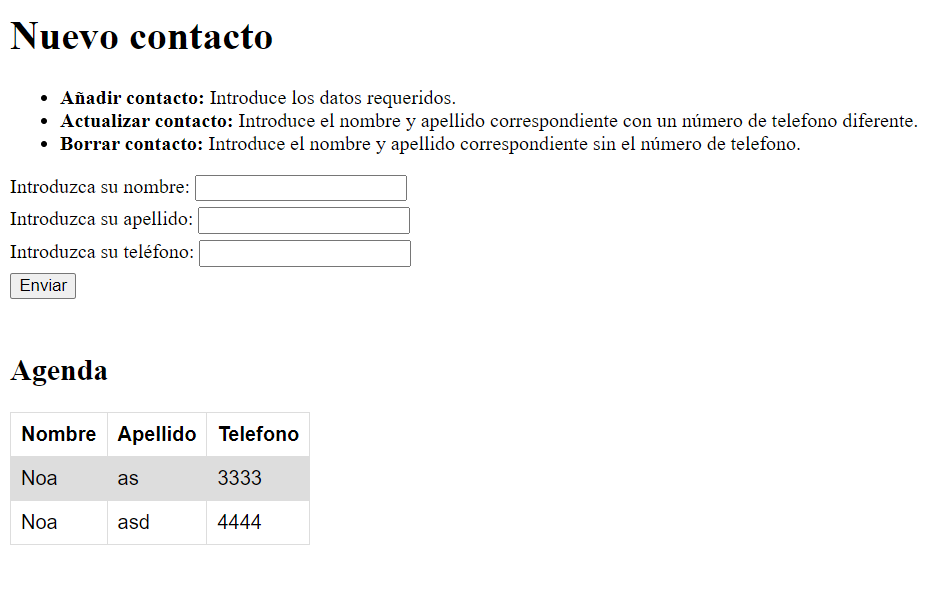
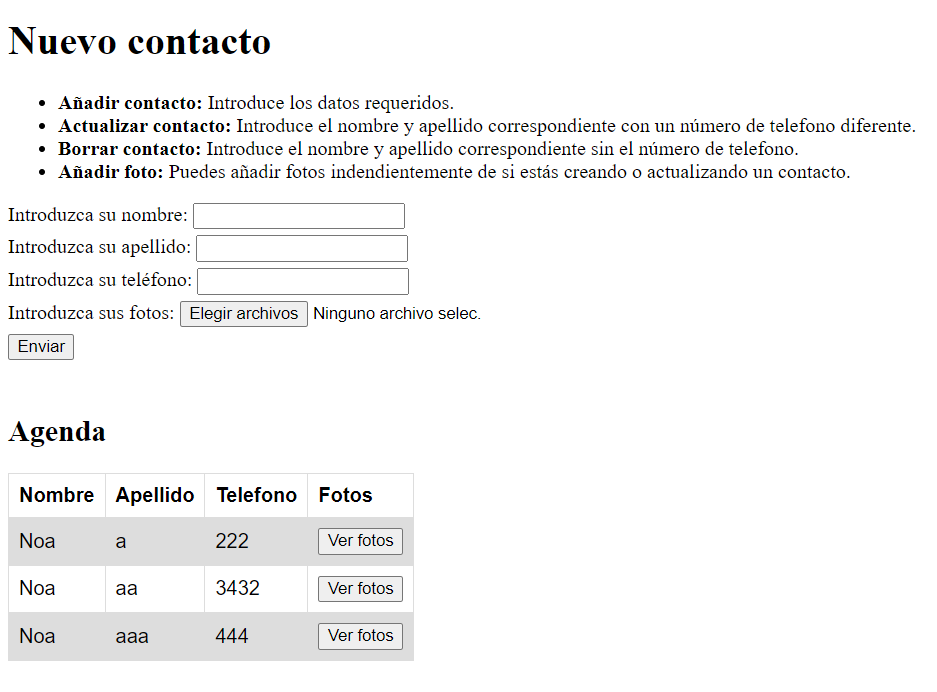
docs(README): update README

diff --git a/no_entregables/T03P01_formulario_agenda_db/README.md b/no_entregables/T03P01_formulario_agenda_db/README.md
@@ -7,6 +7,6 @@
 
 ## Introducción
 
-Práctica en PHP para programar un formulario con el que introducir contactos (nombre + apelllido + número de teléfono) en una agenda, añadiendole esta vez una base de datos para que los datos persistan. Se pueden editar los números al introducir el nombre del contacto con un número distinto, y borrar el contacto introduciendo solo su nombre.  
+Práctica en PHP para programar un formulario con el que introducir contactos (nombre + apelllido + número de teléfono) más fotos de su elección en una agenda, añadiendole esta vez una base de datos para que los datos persistan. Se pueden editar los números al introducir el nombre del contacto con un número distinto, borrar el contacto introduciendo solo su nombre, y añadir fotos sin tener que crear un nuevo contacto.  
 
 ![Index - Table](./docs/index.png)
